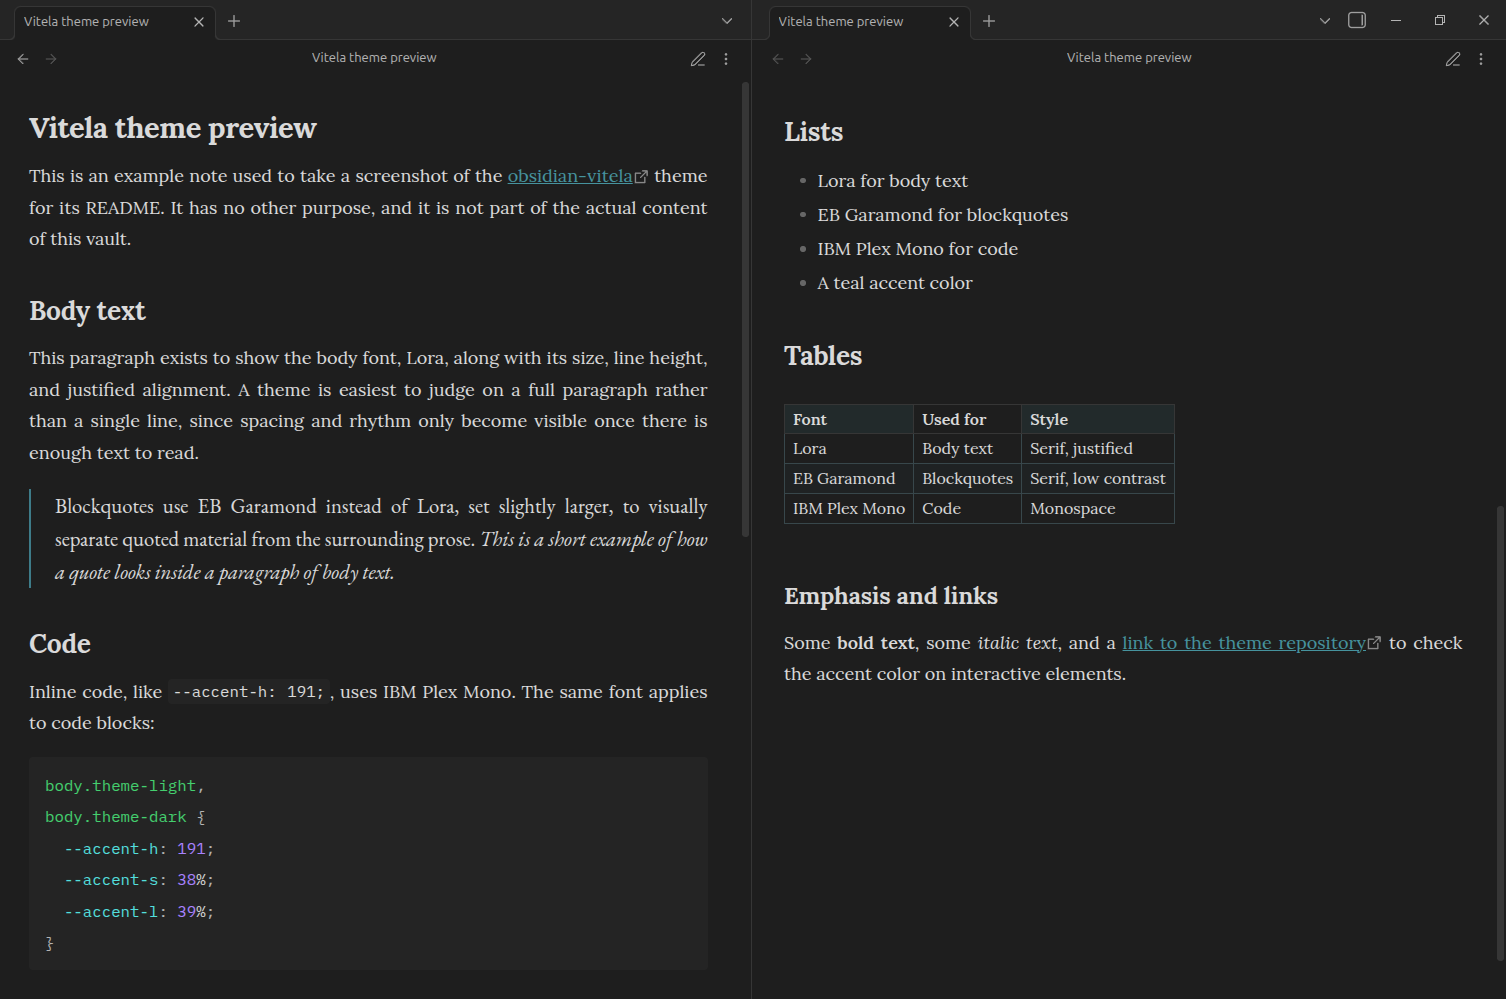
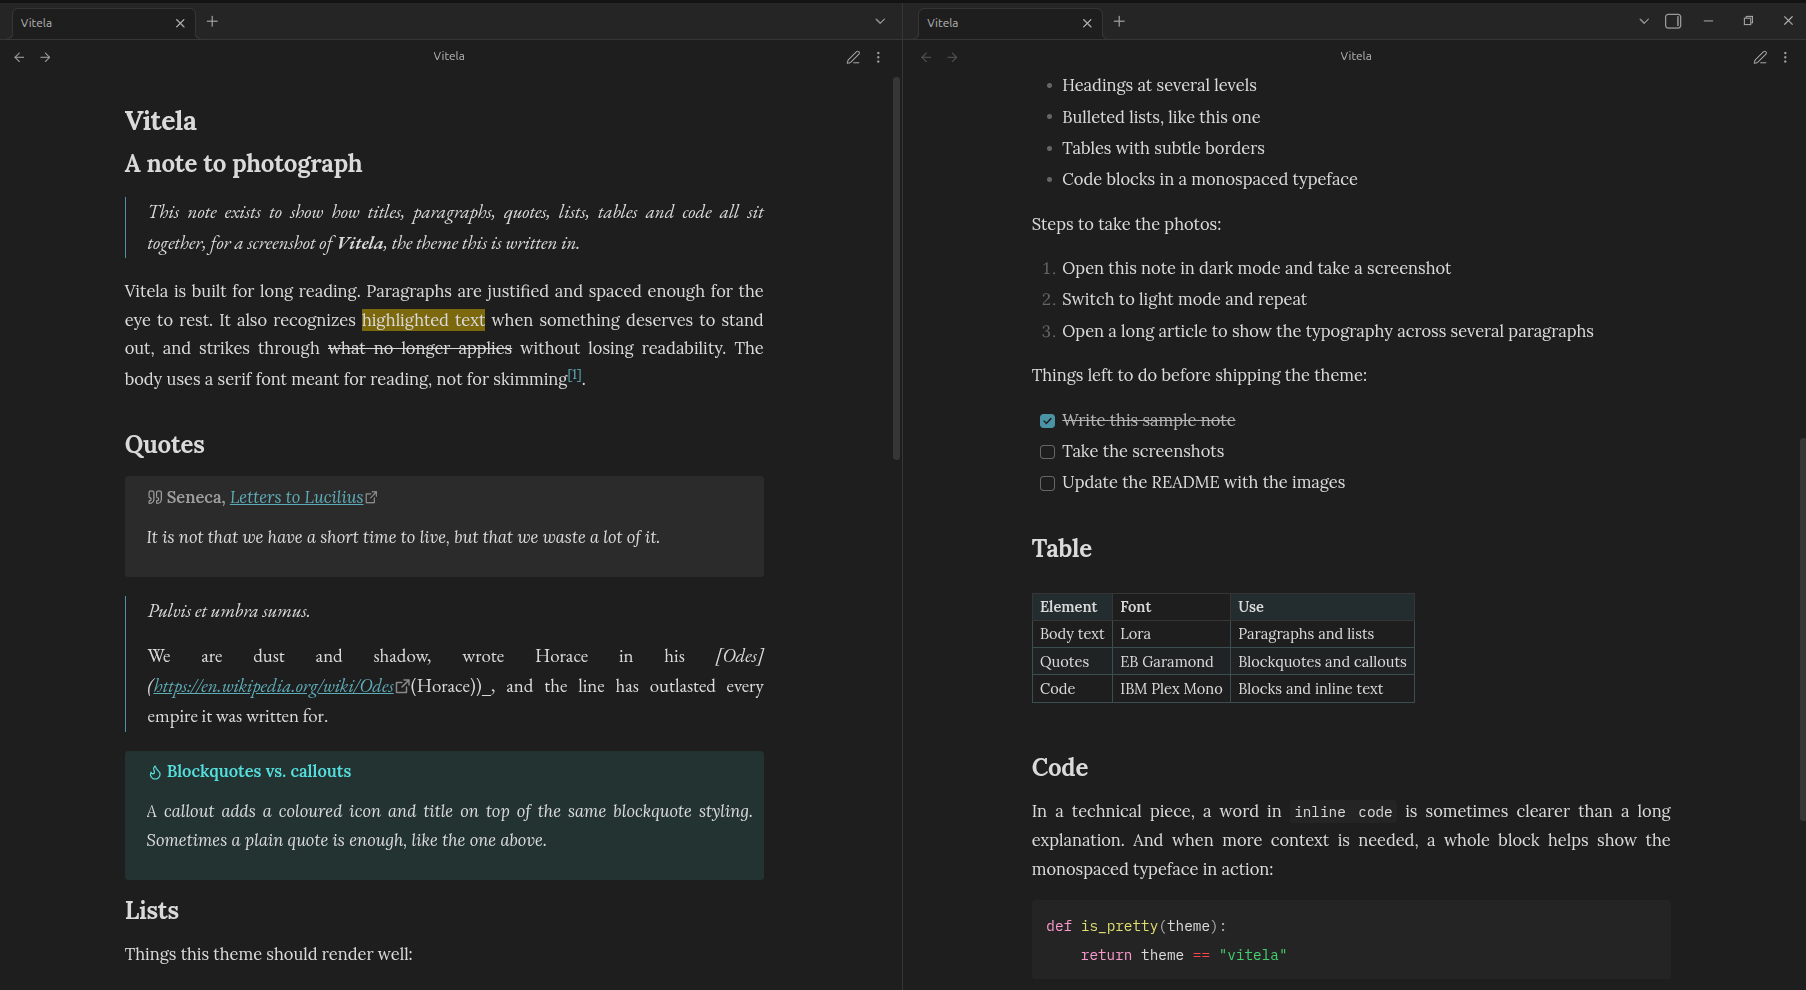
Update README

diff --git a/README.md b/README.md
@@ -1,73 +1,104 @@
 # obsidian-vitela
 
-A minimal serif theme for long-form reading and writing in Obsidian.
+![License](https://img.shields.io/badge/license-MIT-blue.svg)
+![Obsidian](https://img.shields.io/badge/Obsidian-Theme-7C3AED)
+![Platform](https://img.shields.io/badge/platform-Obsidian%20Desktop%20%26%20Publish-success)
 
-- **[Lora](https://fonts.google.com/specimen/Lora)** for body text, a serif optimized for screen reading.
-- **[EB Garamond](https://fonts.google.com/specimen/EB+Garamond)** for blockquotes, a low-contrast classic serif that sets quotes apart from body text.
-- **[IBM Plex Mono](https://fonts.google.com/specimen/IBM+Plex+Mono)** for code blocks and inline code, a monospace typeface.
-- A teal accent color, replacing Obsidian's default purple.
-- Justified body text with automatic hyphenation, for a cleaner block shape
-  in long-form reading without ragged whitespace.
-- Tables with accent-tinted borders and row striping, instead of plain grey.
-- Font size set in `rem`, so it respects the reader's own text size
-  settings instead of overriding them, for anyone who needs a larger size.
+A serif Obsidian theme designed for long-form reading and writing.
+
+Vitela prioritises typography, comfortable reading and sensible defaults over endless customization, making notes feel closer to a well-designed book than a code editor while remaining lightweight, accessible and compatible with Obsidian Publish.
+
+![Vitela hero screenshot](screenshots/hero.png)
+
+Ideal for writers, researchers, students and anyone who spends hours reading and writing in Obsidian.
+
+## Why Vitela?
+
+* **Typography first.** Lora is used for body text, EB Garamond for quotations and IBM Plex Mono for code, each selected for its intended role.
+* **Comfortable reading.** Justified paragraphs with automatic hyphenation produce cleaner text blocks during long reading sessions.
+* **A quieter interface.** A restrained teal accent replaces Obsidian's default purple, while tables use subtle accent-tinted borders and alternating row colours.
+* **Accessible by default.** Font sizes use `rem`, so the theme respects the reader's preferred text size instead of overriding it.
+* **Privacy-friendly.** Fonts are bundled with the theme instead of being loaded from external services.
+* **Publish-ready.** A matching `publish.css` keeps published notes visually consistent with the desktop experience.
+
+## Design principles
+
+Vitela deliberately favours carefully chosen defaults over extensive configuration. Every visual decision aims to improve readability, reduce distraction and maintain a consistent typographic rhythm throughout the vault.
+
+Rather than exposing countless configuration options, Vitela focuses on providing a polished reading and writing experience that works well out of the box.
+
+## Screenshots
 
 ![Dark mode](screenshots/dark.png)
+
 ![Light mode](screenshots/light.png)
+
+<img src="screenshots/mobile-1.jpeg" width="32%" alt="Mobile view 1"> <img src="screenshots/mobile-2.jpeg" width="32%" alt="Mobile view 2"> <img src="screenshots/mobile-3.jpeg" width="32%" alt="Mobile view 3">
 
 ## Installation
 
 1. Download or clone this repository.
-2. Copy the folder into `<vault>/.obsidian/themes/`. The containing folder's
-   name doesn't matter, Obsidian reads `manifest.json` from every subfolder.
-3. In Obsidian, go to **Settings → Appearance → Themes**, and select
-   **obsidian-vitela**.
+2. Copy the folder into `<vault>/.obsidian/themes/`. The containing folder name does not matter; Obsidian discovers themes by locating `manifest.json` files.
+3. Open **Settings → Appearance → Themes** and select **obsidian-vitela**.
 
-## Use with Obsidian Publish
+## Using with Obsidian Publish
 
-Obsidian Publish does not read a vault's local theme files. To apply this
-theme to a published site, copy `publish.css` to the root of the vault being
-published. Obsidian Publish detects and applies it automatically.
+Obsidian Publish does not load local theme files from a vault.
 
-## Fonts
+To use Vitela with a published site, copy `publish.css` into the root of the published vault. Obsidian Publish automatically detects and applies it.
 
-Lora, EB Garamond and IBM Plex Mono are **self-hosted** from `fonts/` (latin
-subset only, which covers Spanish, English and most other Latin-script
-languages) instead of imported from Google Fonts, **to avoid leaking visitor
-IPs and a render-blocking external request**. They're embedded as base64,
-Obsidian blocks network requests from theme CSS, and Obsidian Publish's
-media pipeline only accepts images, video, audio and PDF as standalone
-assets, not font files, so a plain file `url()` doesn't work reliably in
-either case.
+## Technical notes
 
-## Development
+### Fonts
 
-`theme.css` is the only file meant to be hand-edited. `publish.css` is
-generated from it (same rules, minus the editor-only half of each
-selector, since a published page has no Live Preview), so the two can't
-drift out of sync by hand. Run this after touching `theme.css` or a file
-in `fonts/`:
+Vitela ships with its own font files instead of loading them from Google Fonts.
+
+The bundled fonts include the Latin subset of Lora, EB Garamond and IBM Plex Mono, covering English, Spanish and most other Latin-script languages. Bundling the fonts avoids external requests, preserves visitor privacy by preventing IP leakage to third-party font providers and ensures consistent rendering both locally and in Obsidian Publish.
+
+The fonts are embedded as Base64. Obsidian blocks network requests from theme CSS, while Obsidian Publish's asset pipeline accepts standalone images, audio, video and PDF files but not font files. Embedding the fonts avoids these limitations and provides a reliable solution in both environments.
+
+### Build process
+
+`theme.css` is the project's single source of truth.
+
+`publish.css` is generated automatically from it by removing the editor-only portions of selectors, since published notes do not include Live Preview. This guarantees that both stylesheets remain synchronized without duplicated maintenance.
+
+After modifying `theme.css` or any file under `fonts/`, run:
 
 ```sh
 ./scripts/build.sh
 ```
 
-It regenerates the embedded font block in `theme.css` first, then
-regenerates `publish.css` from it. The two steps also run separately as
-`scripts/build-fonts.sh` and `scripts/build-publish-css.sh`.
+This script first regenerates the embedded font definitions inside `theme.css`, then regenerates `publish.css`.
 
-See [CHANGELOG.md](CHANGELOG.md) for the version history.
+The individual steps are also available separately:
 
-## Author
+* `scripts/build-fonts.sh`
+* `scripts/build-publish-css.sh`
 
-Nicolás Cereijo Ranchal.
+### Repository layout
 
-- [Welcome page](https://publish.obsidian.md/nicolascereijo/welcome) (English)
-- [Página de bienvenida](https://publish.obsidian.md/nicolascereijo/bienvenida) (Spanish)
+```python
+File                          Purpose
+────────────────────────────  ─────────────────────────────────────────
+theme.css                     Main stylesheet (source of truth)
+publish.css                   Generated stylesheet for Obsidian Publish
+fonts/                        Bundled font files
+scripts/build.sh              Rebuild fonts and publish.css
+scripts/build-fonts.sh        Regenerate embedded font definitions
+scripts/build-publish-css.sh  Generate publish.css from theme.css
+```
+
+## Changelog
+
+See [CHANGELOG.md](CHANGELOG.md) for the project's version history.
 
 ## License
 
-The theme itself is MIT, see [LICENSE](LICENSE). The fonts bundled in
-`fonts/` are separately licensed under the SIL Open Font License 1.1 by
-their respective authors, see `fonts/LICENSE-lora.txt`,
-`fonts/LICENSE-eb-garamond.txt` and `fonts/LICENSE-ibm-plex-mono.txt`.
+The theme itself is licensed under the MIT License. See [LICENSE](LICENSE).
+
+The bundled fonts are licensed separately under the SIL Open Font License 1.1 by their respective authors. See:
+
+* `fonts/LICENSE-lora.txt`
+* `fonts/LICENSE-eb-garamond.txt`
+* `fonts/LICENSE-ibm-plex-mono.txt`